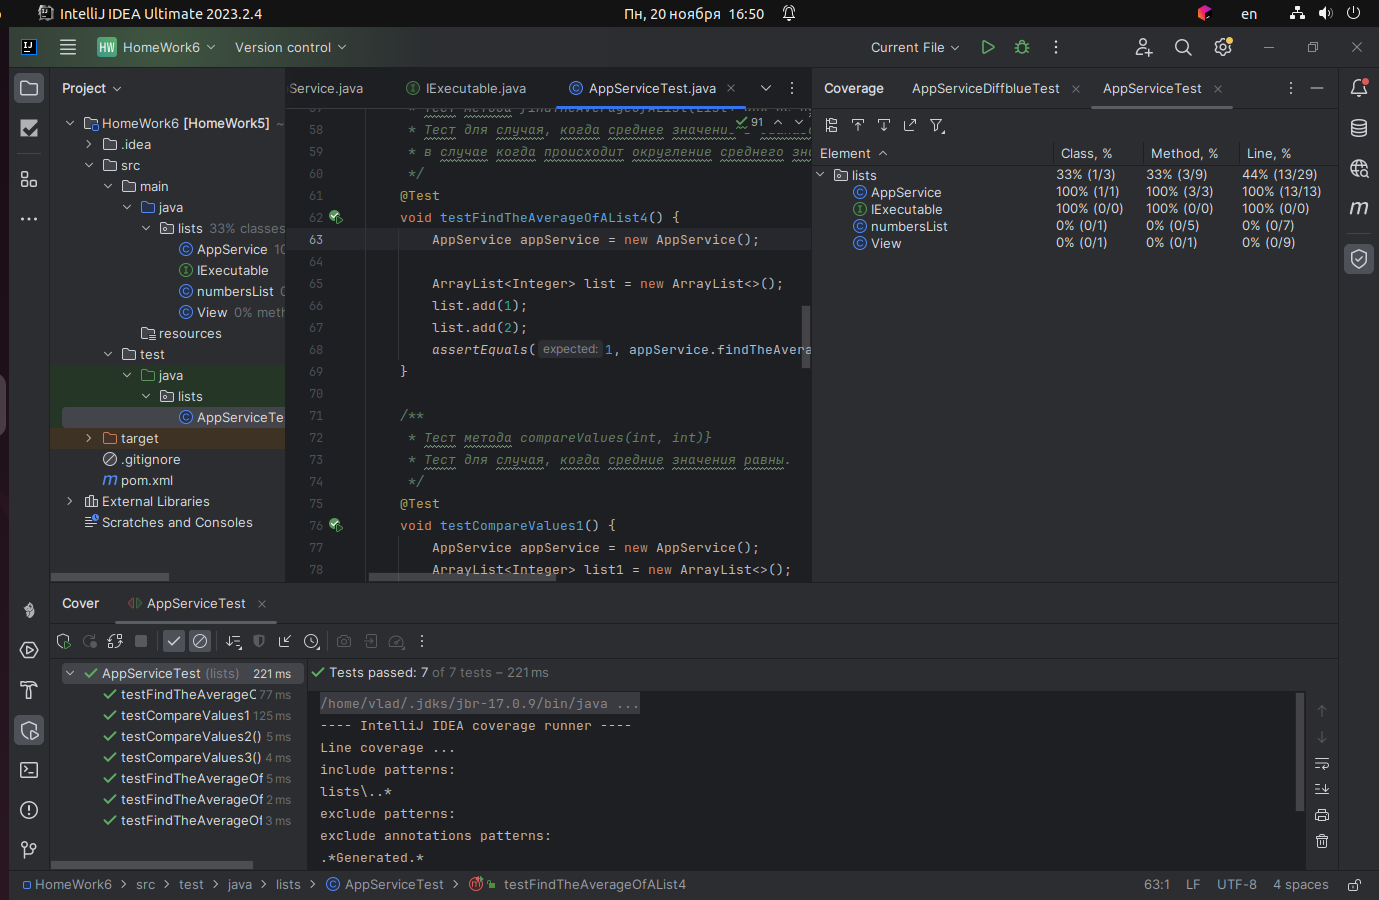
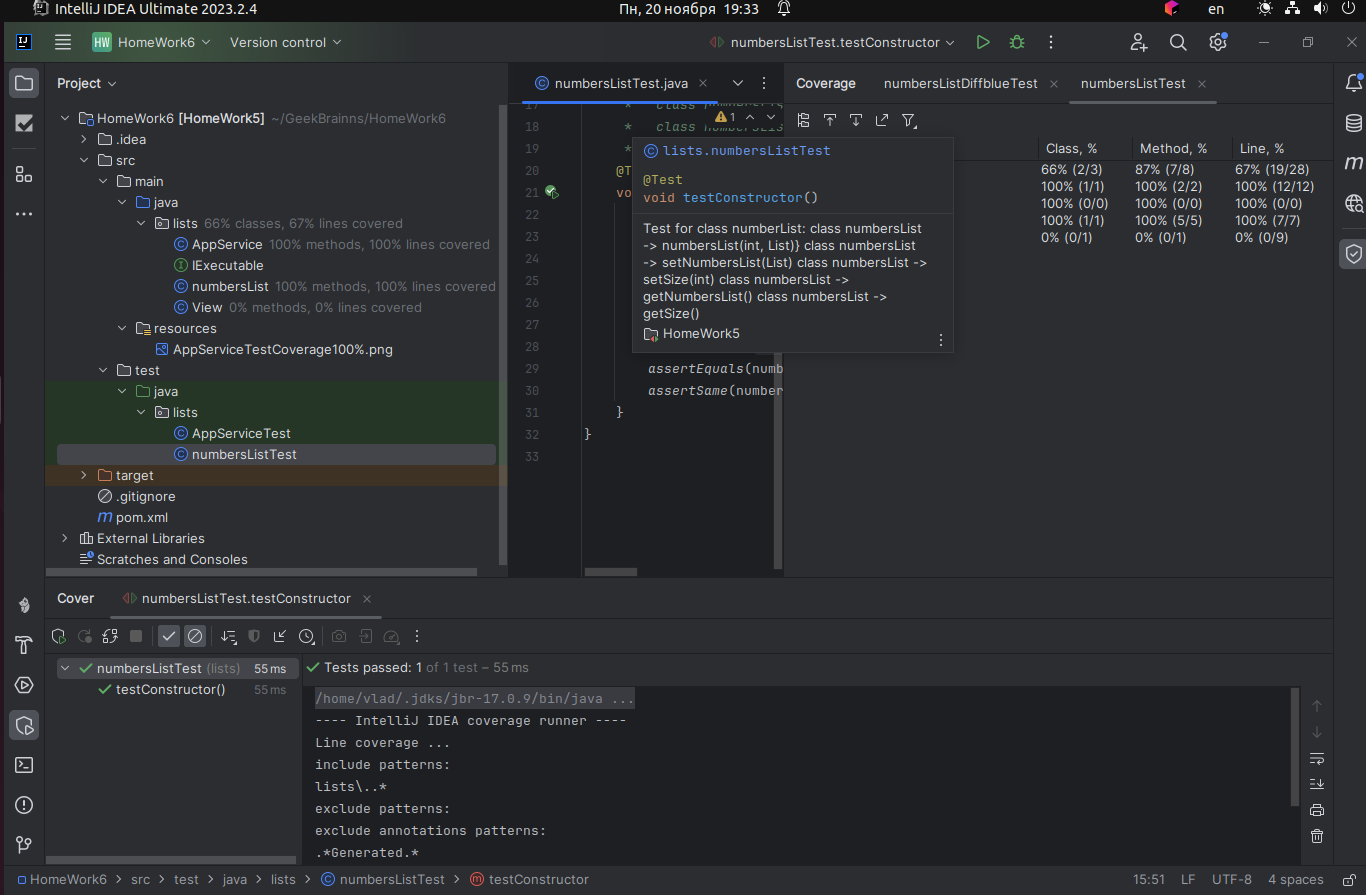
added HomeWork_6

diff --git a/HomeWorkSix/src/test/java/lists/NumbersListTest.java b/HomeWorkSix/src/test/java/lists/NumbersListTest.java
@@ -1,0 +1,32 @@
+package lists;
+
+import static org.junit.jupiter.api.Assertions.assertEquals;
+import static org.junit.jupiter.api.Assertions.assertSame;
+
+import java.util.ArrayList;
+import java.util.List;
+
+import org.junit.jupiter.api.Test;
+
+class NumbersListTest {
+    /**
+     *   Test for class numberList:
+     *   class numbersList -> numbersList(int, List)}
+     *   class numbersList -> setNumbersList(List)
+     *   class numbersList -> setSize(int)
+     *   class numbersList -> getNumbersList()
+     *   class numbersList -> getSize()
+     */
+    @Test
+    void testConstructor() {
+        ArrayList<Integer> numbersList = new ArrayList<>();
+        NumbersList actualNumbersList = new NumbersList(3, numbersList);
+        ArrayList<Integer> numbersList2 = new ArrayList<>();
+        actualNumbersList.setNumbersList(numbersList2);
+        actualNumbersList.setSize(3);
+        List<Integer> actualNumbersList2 = actualNumbersList.getNumbersList();
+        assertEquals(3, actualNumbersList.getSize());
+        assertEquals(numbersList, actualNumbersList2);
+        assertSame(numbersList2, actualNumbersList2);
+    }
+}

diff --git a/HomeWorkSix/src/main/java/lists/NumbersList.java b/HomeWorkSix/src/main/java/lists/NumbersList.java
@@ -2,11 +2,11 @@ package lists;
 
 import java.util.List;
 
-public class numbersList {
+public class NumbersList {
    private int size;
    private List<Integer> numbersList;
 
-    public numbersList(int size, List<Integer> numbersList) {
+    public NumbersList(int size, List<Integer> numbersList) {
         this.size = size;
         this.numbersList = numbersList;
     }
